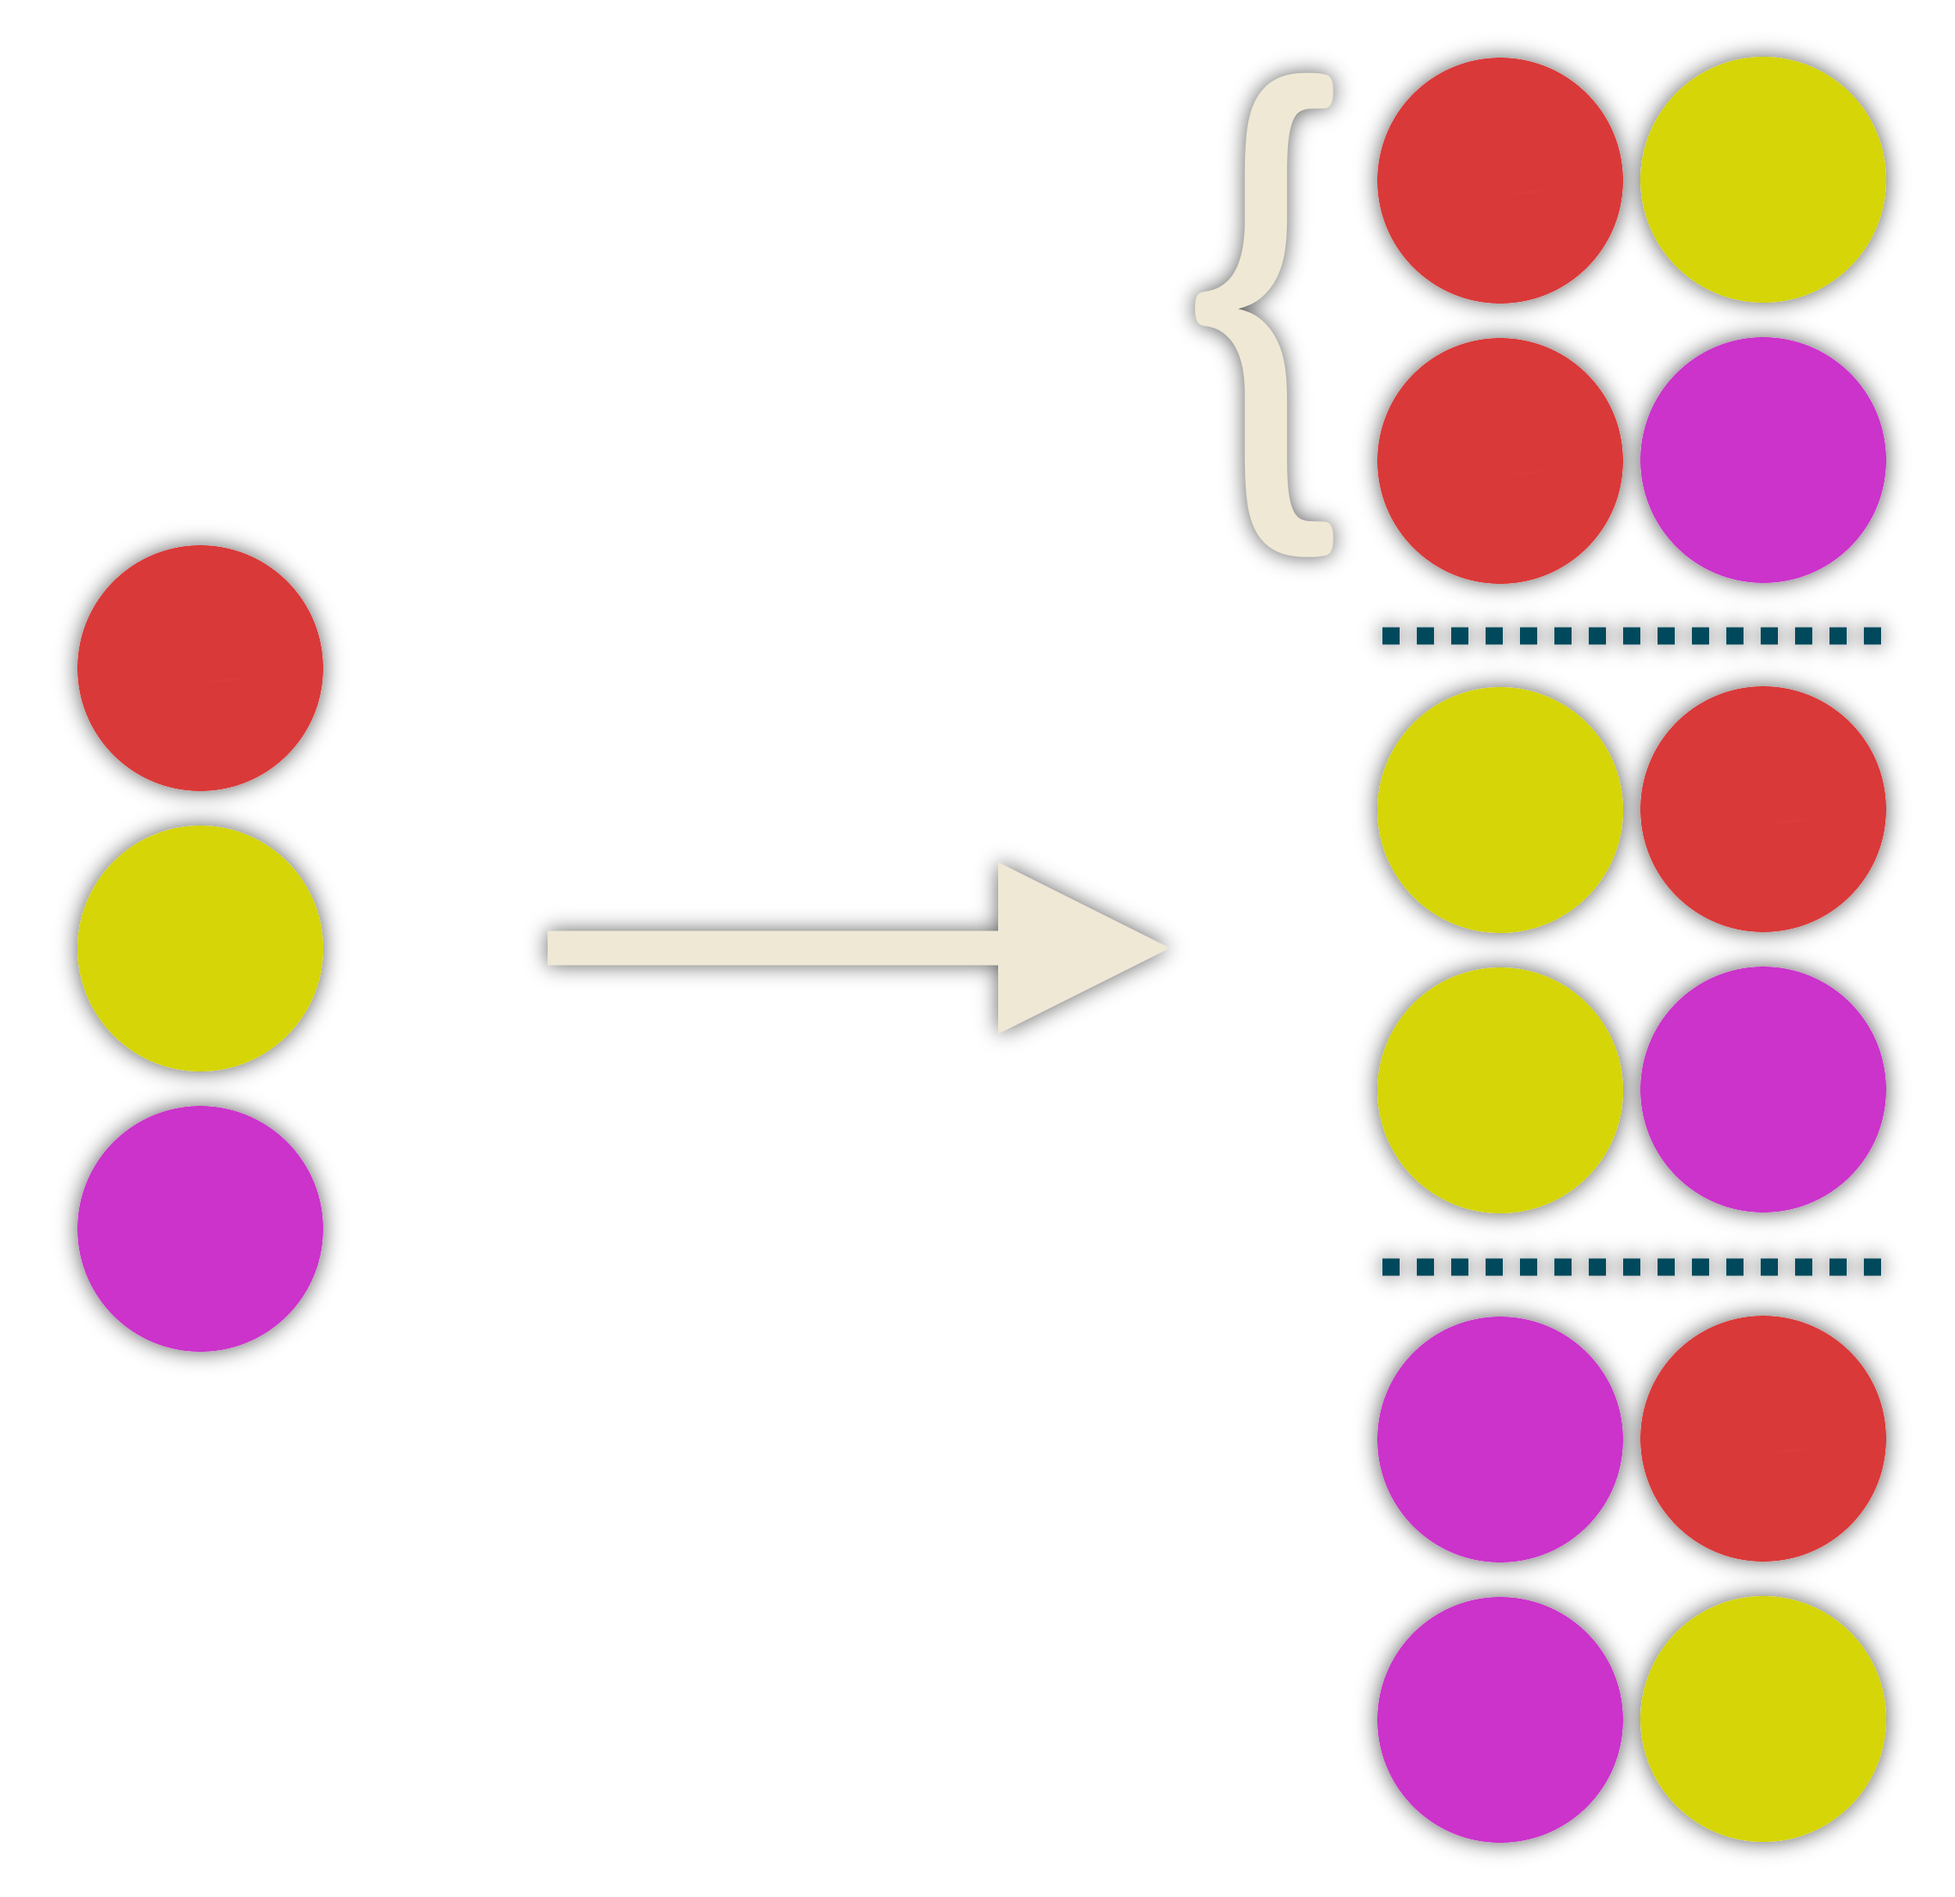
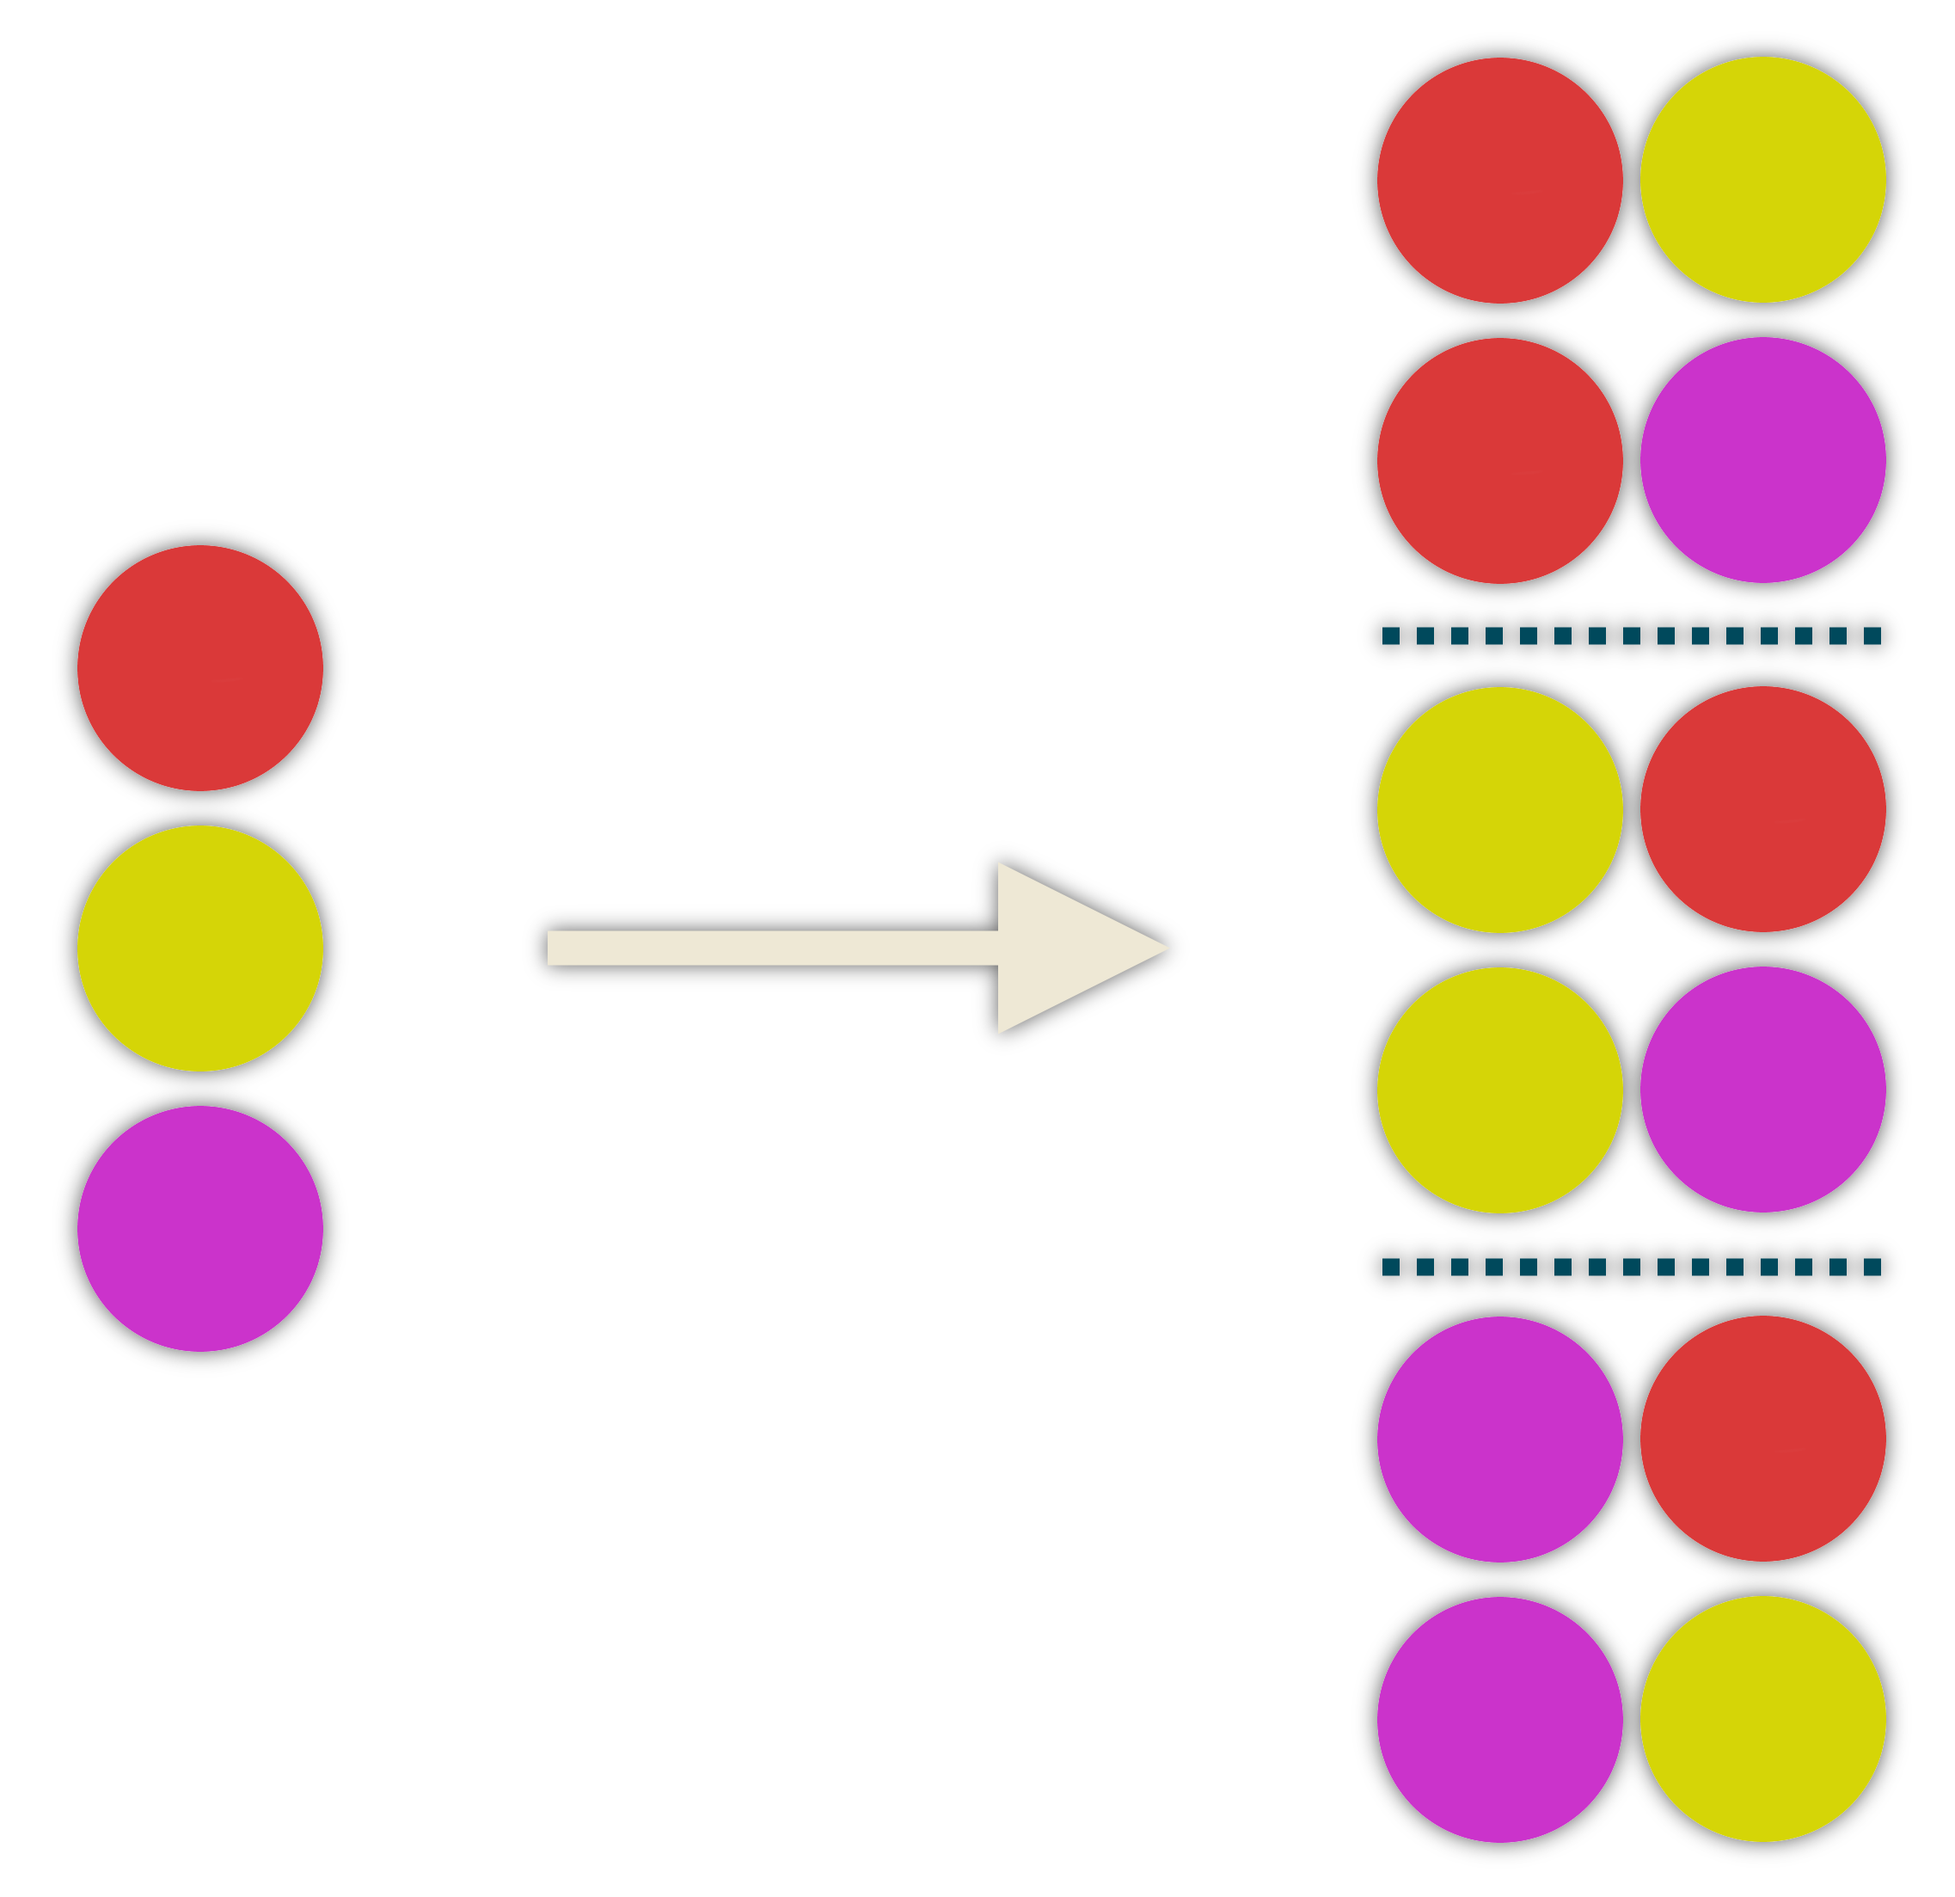
Fix iter_move diagrams and improve formatting

Changed region(s): [[0.5932, 0.0308, 0.6869, 0.3083]]

diff --git a/index.html b/index.html
@@ -28,17 +28,11 @@
 
 <!--
 Thoughts:
-    - Instead of showing the pipe workaround, I should just show how it works and where it fails. Maybe I can make the
-      solution for complete pipelines available on GitHub.
-    - Definitely need to disambiguate better between views, adapters, and factories. Need to point out that views are
-      ready to be customized, but adapters are not.
     - A good reason to use sentinels: it signals that you have C++20 requirements. Especially if you wrote a proxy
       iterator, a sentinel will ensure that doesn't work with old generic code that won't properly handle proxies.
-    - Another solution instead of cartesian_product_view might be by using filter_view to just drop thisBody on each loop.
-      I should mention that, even though I won't use it.
     - Add in the note about the pointer type for proxy iterators somewhere. Not the same place as before though.
-    - Mention needing to opt into enable_view in all of the supported libraries.
     - Define viewable_range
+    - *sigh* P1456 (move-only views) and potentially P2415 need to be reflected.
 -->
 
 	<div class="reveal">

diff --git a/themes/custom-slide-style.css b/themes/custom-slide-style.css
@@ -124,7 +124,7 @@ div.hl-block li code{
     border-bottom: 5px solid #0085A8;
     text-align: center;
     font-family: 'Roboto Slab', serif;
-    font-size: 50px;
+    font-size: 45px;
     font-weight: 400;
 }
 
@@ -231,11 +231,11 @@ aside.subtle {
 }
 
 .pretty-big-text {
-    font-size: 80px;
+    font-size: 70px;
 }
 
 .medium-text {
-    font-size: 65px;
+    font-size: 55px;
 }
 
 .left-align {
@@ -263,6 +263,14 @@ aside.subtle {
 .reveal h6 {
     text-transform: none;
     font-family: 'Roboto Slab', serif;
+}
+
+.reveal h2 {
+    font-size: 75px;
+}
+
+.reveal h3 {
+    font-size: 65px;
 }
 
 .reveal h6 {
@@ -311,6 +319,13 @@ aside.subtle {
     height: 710px;
     margin: 0 !important;
     object-fit: contain;
+}
+
+@media print {
+    .slide-background {
+        background-color: var(--r-background-color) !important;
+        -webkit-print-color-adjust: exact;
+    }
 }
 
 /*.fill {*/

diff --git a/pipe-operator.md b/pipe-operator.md
@@ -27,7 +27,7 @@ for (int i : iota(2) | filter(even) | transform(square))
 <section>
 
 <pre><code class="cpp" data-noescape data-trim data-line-numbers="|1|2|1">
-auto const reversed_evens = std::views::filter(even) | std::views::reverse;
+auto const reversed_evens = std::views::reverse | std::views::filter(even);
 auto const x = <i>some_range</i> | reversed_evens;
 </code></pre>
 
@@ -74,7 +74,7 @@ auto const x = <i>some_range</i> | reversed_evens;
 <section>
 
 <pre><code class="cpp" data-noescape data-trim data-line-numbers="1">
-auto const reversed_evens = std::views::filter(even) | std::views::reverse;
+auto const reversed_evens = std::views::reverse | std::views::filter(even);
 auto const x = <i>some_range</i> | reversed_evens;
 </code></pre>
 
@@ -147,7 +147,7 @@ then the following expressions are equivalent:
 <section>
 
 <pre><code class="cpp" data-noescape data-trim data-line-numbers="1|2">
-auto const reversed_evens = std::views::filter(even) | std::views::reverse;
+auto const reversed_evens = std::views::reverse | std::views::filter(even);
 auto const x = <i>some_range</i> | reversed_evens;
 </code></pre>
 

diff --git a/iter-swap.md b/iter-swap.md
@@ -204,9 +204,18 @@ public:
 ```
 
 </section>
+<section data-background-image="images/problem-with-iter-move-1.png" data-background-size="contain">
+</section>
+<section data-background-image="images/problem-with-iter-move-2.png" data-background-size="contain">
+</section>
+<section data-background-image="images/problem-with-iter-move-3.png" data-background-size="contain">
+</section>
 <section>
 
-[Insert diagram to demonstrate cycling view problem.]
+<div class="hl-block pretty-big-text">
+
+Views that expose elements multiple times can't use `iter_move`.
+
+</div>
 
 </section>
-

diff --git a/vector-bool.md b/vector-bool.md
@@ -258,7 +258,7 @@ void f(T& t)
         </p>
     </div>
     <div class="fragment" data-fragment-index="1"
-         style="position: absolute; top: 90px; left: 500px; width: 670px; height: 10px; background-color: #DA3939; box-shadow: 0 0 7px #000000A0;"></div>
+         style="position: absolute; top: 80px; left: 515px; width: 610px; height: 10px; background-color: #DA3939; box-shadow: 0 0 7px #000000A0;"></div>
     <div class="fragment" data-fragment-index="1">
         <h2 class="correction" style="top: -60px; left: 550px;">that conforms</h2>
     </div>

diff --git a/definitions.md b/definitions.md
@@ -35,7 +35,8 @@ https://github.com/ericniebler/range-v3
         <td>
             <ul>
                 <li>A specific type of range.</li>
-                <li><b>Constant-time copy/move/assign.</b></li>
+                <li><b>O(1) move/destroy.</b></li>
+                <li>O(1) copy (if copyable).</li>
                 <li><code>ranges::enable_view&lt;T></code> is true.</li>
             </ul>
         </td>

diff --git a/all-pairs-view-1.md b/all-pairs-view-1.md
@@ -1,4 +1,4 @@
-<section data-background-image="images/planet-transformation.png" data-background-size="contain">
+<section data-background-image="images/planet-transformation-bracket.png" data-background-size="contain">
 </section>
 <section>
 
